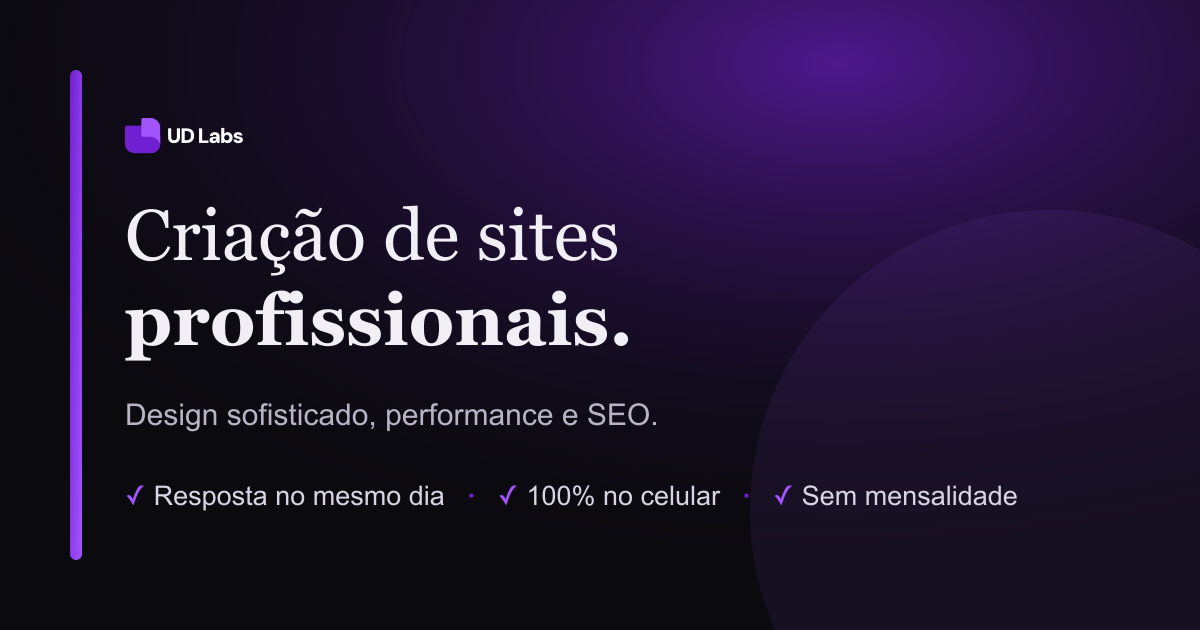
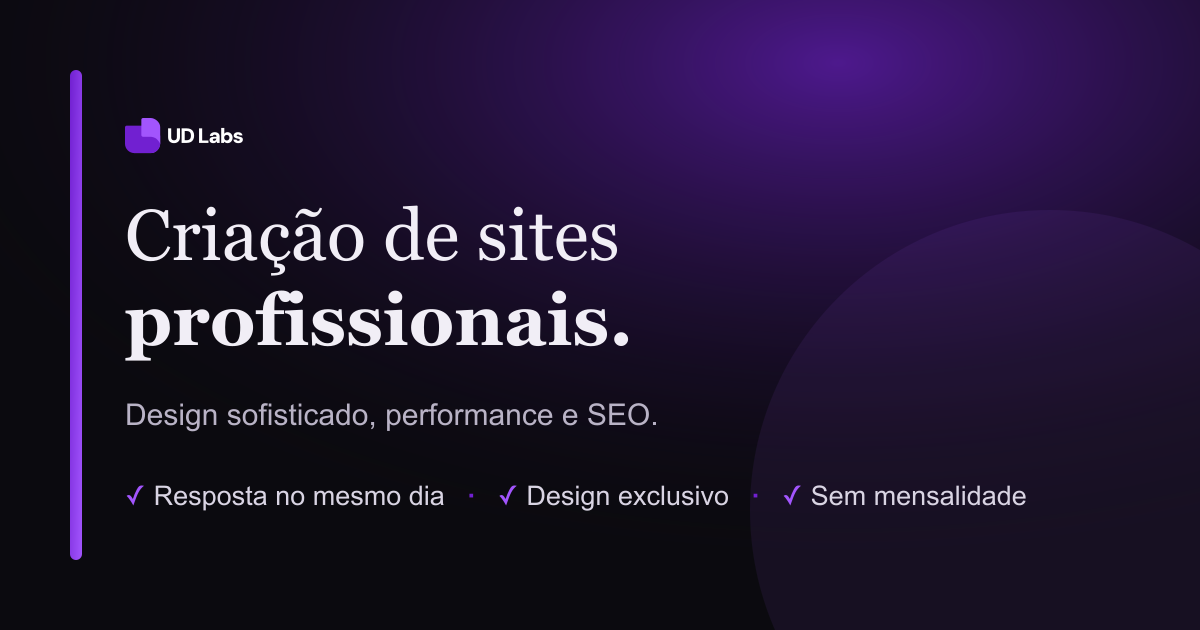
Troca "100% no celular" por "Design exclusivo"
Benefício de responsividade virou table-stakes; "Design exclusivo"
diferencia melhor. Atualizado no hero e na imagem de compartilhamento.

Changed region(s): [[0.6475, 0.754, 0.8633, 0.8143], [0.4317, 0.754, 0.6167, 0.8143]]

diff --git a/index.html b/index.html
@@ -640,7 +640,7 @@
       </div>
       <p class="micro reveal d4">
         <span><b>⚡</b> Resposta no mesmo dia</span>
-        <span><b>◆</b> 100% no celular</span>
+        <span><b>◆</b> Design exclusivo</span>
         <span><b>✓</b> Sem mensalidade</span>
       </p>
     </div>